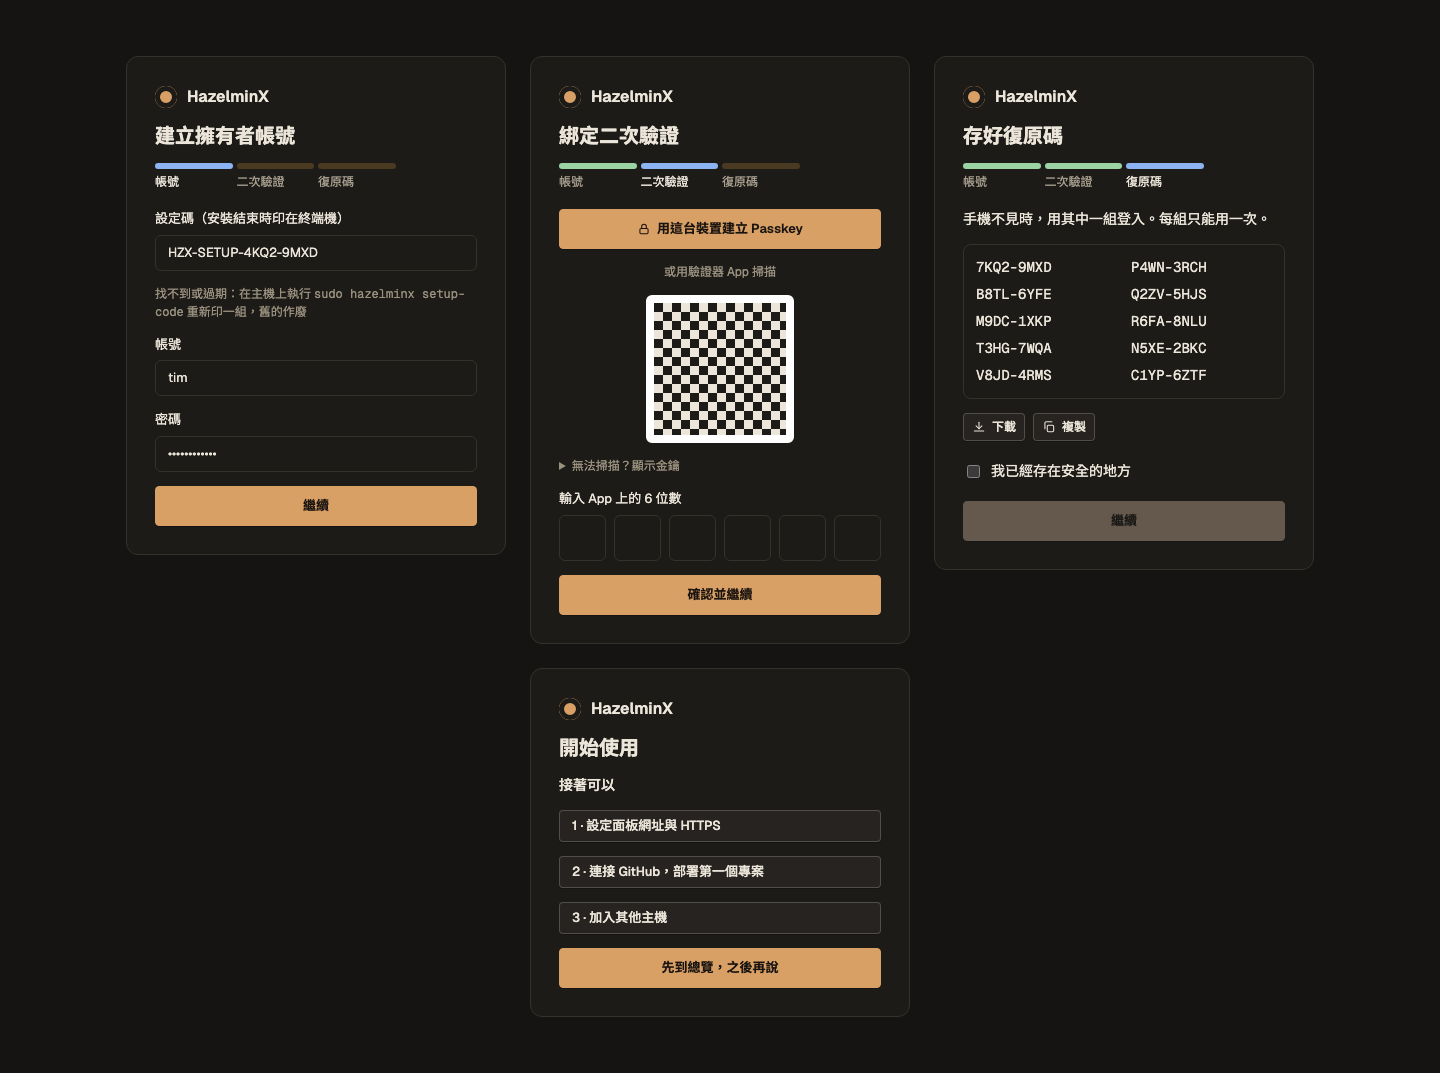
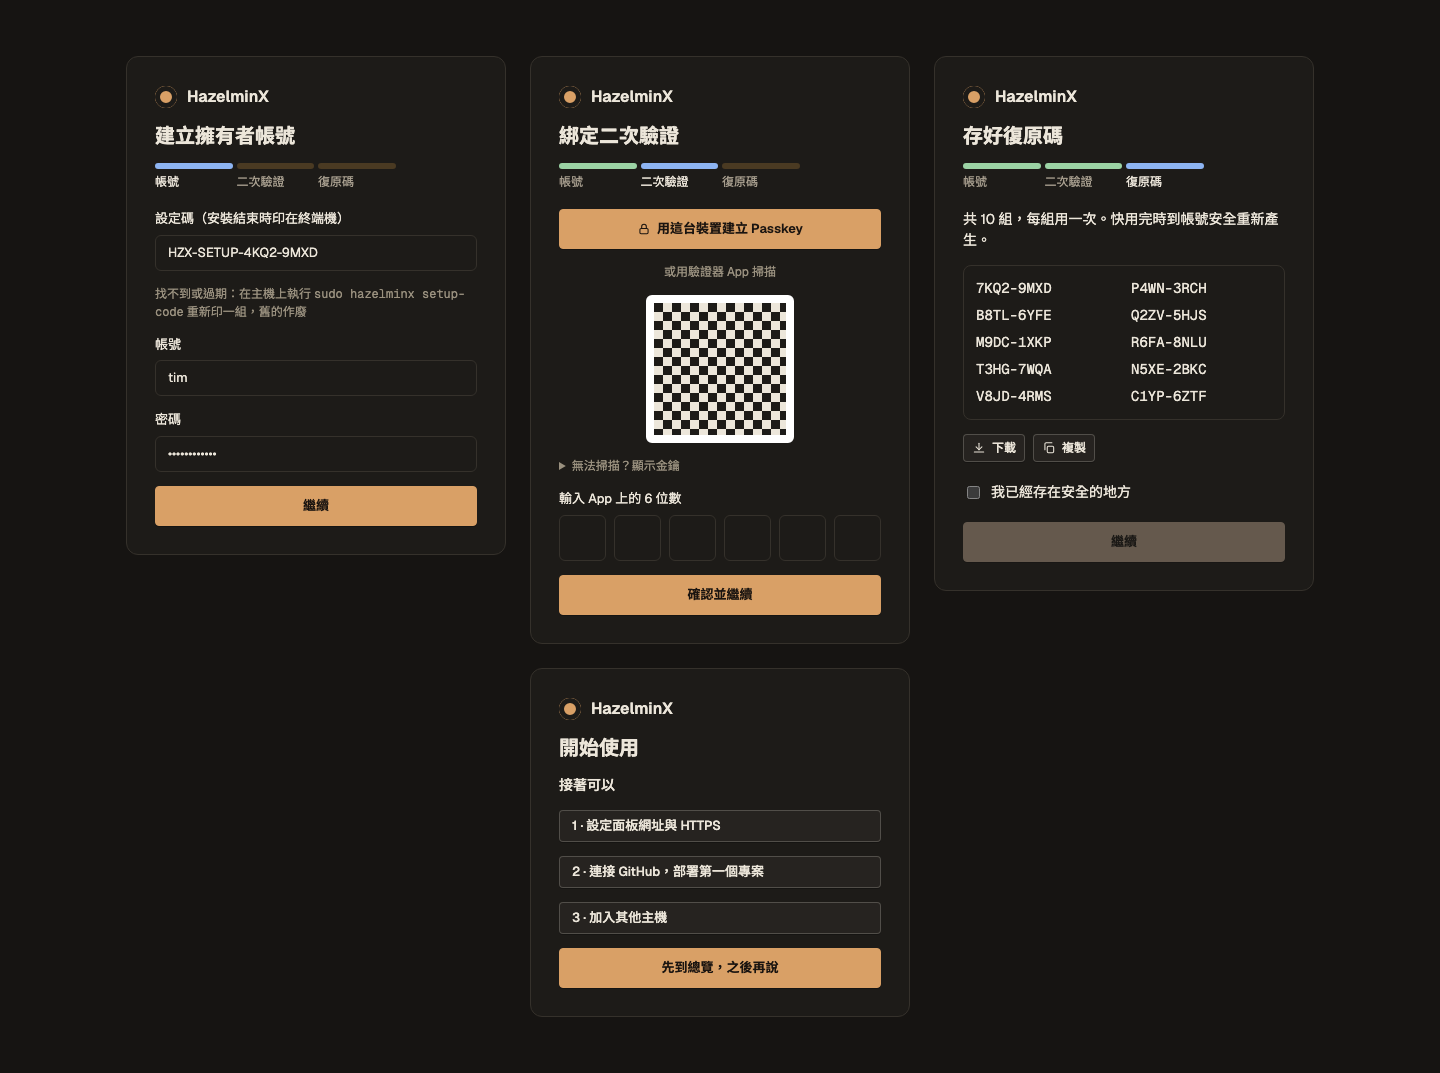
design: say how many recovery codes there are and how to get more

Changed region(s): [[0.6562, 0.1845, 0.9062, 0.5228], [0.7812, 0.246, 0.8438, 0.3691]]

diff --git a/design/screens/Setup.dc.html b/design/screens/Setup.dc.html
@@ -481,7 +481,7 @@ body{margin:0}
 <div class="hb theme-{{theme}}" style="min-height:100vh;display:flex;flex-direction:column"><main class="main" style="padding:0"><div style="flex:1;display:flex;flex-wrap:wrap;gap:24px;align-items:flex-start;justify-content:center;padding:56px 16px"><section style="background:var(--panel);border:1px solid var(--line);border-radius:12px;padding:28px;display:flex;flex-direction:column;gap:14px;width:100%;max-width:380px" aria-labelledby="h-s1"><div style="display:flex;align-items:center;gap:10px;font-weight:600;font-size:16px"><span class="logo" aria-hidden="true"></span>HazelminX</div><h1 id="h-s1" style="font-size:20px">建立擁有者帳號</h1><div class="steps"><div class="step cur"><b aria-hidden="true"></b><span>帳號</span><span class="note"></span></div><div class="step todo"><b aria-hidden="true"></b><span>二次驗證</span><span class="note"></span></div><div class="step todo"><b aria-hidden="true"></b><span>復原碼</span><span class="note"></span></div></div>
       <label style="display:flex;flex-direction:column;gap:6px;font-size:13px"><span>設定碼（安裝結束時印在終端機）</span><span class="inp"><input type="text" value="HZX-SETUP-4KQ2-9MXD" style="background:transparent;border:0;flex:1;min-width:0"></span></label><span class="note">找不到或過期：在主機上執行 <span class="mono">sudo hazelminx setup-code</span> 重新印一組，舊的作廢</span><label style="display:flex;flex-direction:column;gap:6px;font-size:13px"><span>帳號</span><span class="inp"><input type="text" value="tim" style="background:transparent;border:0;flex:1;min-width:0"></span></label><label style="display:flex;flex-direction:column;gap:6px;font-size:13px"><span>密碼</span><span class="inp"><input type="password" value="••••••••••••" style="background:transparent;border:0;flex:1;min-width:0"></span></label><button type="button" class="btn pri" style="min-height:40px">繼續</button></section><section style="background:var(--panel);border:1px solid var(--line);border-radius:12px;padding:28px;display:flex;flex-direction:column;gap:14px;width:100%;max-width:380px" aria-labelledby="h-s2"><div style="display:flex;align-items:center;gap:10px;font-weight:600;font-size:16px"><span class="logo" aria-hidden="true"></span>HazelminX</div><h1 id="h-s2" style="font-size:20px">綁定二次驗證</h1><div class="steps"><div class="step done"><b aria-hidden="true"></b><span>帳號</span><span class="note"></span></div><div class="step cur"><b aria-hidden="true"></b><span>二次驗證</span><span class="note"></span></div><div class="step todo"><b aria-hidden="true"></b><span>復原碼</span><span class="note"></span></div></div>
       <button type="button" class="btn pri" style="min-height:40px"><svg viewBox="0 0 24 24" width="14" height="14" fill="none" stroke="currentColor" stroke-width="1.8" stroke-linecap="round" stroke-linejoin="round" aria-hidden="true"><rect x="5" y="11" width="14" height="9" rx="2"/><path d="M8 11V8a4 4 0 0 1 8 0v3"/></svg>用這台裝置建立 Passkey</button><span class="note" style="text-align:center">或用驗證器 App 掃描</span><div aria-label="QR code" style="width:148px;height:148px;align-self:center;background:repeating-conic-gradient(var(--ink) 0 25%,var(--panel) 0 50%) 0 0/18px 18px;border:8px solid #fff;border-radius:6px"></div><details><summary class="note">無法掃描？顯示金鑰</summary><span class="mono">JBSW Y3DP EHPK 3PXP</span> <button type="button" class="btn sm"><svg viewBox="0 0 24 24" width="14" height="14" fill="none" stroke="currentColor" stroke-width="1.8" stroke-linecap="round" stroke-linejoin="round" aria-hidden="true"><rect x="9" y="9" width="11" height="11" rx="2"/><path d="M5 15V5a2 2 0 0 1 2-2h10"/></svg>複製</button></details><div style="display:flex;flex-direction:column;gap:6px;font-size:13px"><span>輸入 App 上的 6 位數</span><div style="display:grid;grid-template-columns:repeat(6,1fr);gap:8px" role="group" aria-label="6 位數驗證碼"><span class="inp mono" style="min-height:46px;padding:0"></span><span class="inp mono" style="min-height:46px;padding:0"></span><span class="inp mono" style="min-height:46px;padding:0"></span><span class="inp mono" style="min-height:46px;padding:0"></span><span class="inp mono" style="min-height:46px;padding:0"></span><span class="inp mono" style="min-height:46px;padding:0"></span></div></div><button type="button" class="btn pri" style="min-height:40px">確認並繼續</button></section><section style="background:var(--panel);border:1px solid var(--line);border-radius:12px;padding:28px;display:flex;flex-direction:column;gap:14px;width:100%;max-width:380px" aria-labelledby="h-s3"><div style="display:flex;align-items:center;gap:10px;font-weight:600;font-size:16px"><span class="logo" aria-hidden="true"></span>HazelminX</div><h1 id="h-s3" style="font-size:20px">存好復原碼</h1><div class="steps"><div class="step done"><b aria-hidden="true"></b><span>帳號</span><span class="note"></span></div><div class="step done"><b aria-hidden="true"></b><span>二次驗證</span><span class="note"></span></div><div class="step cur"><b aria-hidden="true"></b><span>復原碼</span><span class="note"></span></div></div>
-      <span>手機不見時，用其中一組登入。每組只能用一次。</span><div style="display:grid;grid-template-columns:1fr 1fr;gap:6px 14px;padding:12px;border:1px solid var(--line);border-radius:8px"><span class="mono">7KQ2-9MXD</span><span class="mono">P4WN-3RCH</span><span class="mono">B8TL-6YFE</span><span class="mono">Q2ZV-5HJS</span><span class="mono">M9DC-1XKP</span><span class="mono">R6FA-8NLU</span><span class="mono">T3HG-7WQA</span><span class="mono">N5XE-2BKC</span><span class="mono">V8JD-4RMS</span><span class="mono">C1YP-6ZTF</span></div>
+      <span>共 10 組，每組用一次。快用完時到帳號安全重新產生。</span><div style="display:grid;grid-template-columns:1fr 1fr;gap:6px 14px;padding:12px;border:1px solid var(--line);border-radius:8px"><span class="mono">7KQ2-9MXD</span><span class="mono">P4WN-3RCH</span><span class="mono">B8TL-6YFE</span><span class="mono">Q2ZV-5HJS</span><span class="mono">M9DC-1XKP</span><span class="mono">R6FA-8NLU</span><span class="mono">T3HG-7WQA</span><span class="mono">N5XE-2BKC</span><span class="mono">V8JD-4RMS</span><span class="mono">C1YP-6ZTF</span></div>
       <div class="wrap"><button type="button" class="btn sm"><svg viewBox="0 0 24 24" width="14" height="14" fill="none" stroke="currentColor" stroke-width="1.8" stroke-linecap="round" stroke-linejoin="round" aria-hidden="true"><path d="M12 4v11"/><path d="m7 10 5 5 5-5"/><path d="M4 19h16"/></svg>下載</button><button type="button" class="btn sm"><svg viewBox="0 0 24 24" width="14" height="14" fill="none" stroke="currentColor" stroke-width="1.8" stroke-linecap="round" stroke-linejoin="round" aria-hidden="true"><rect x="9" y="9" width="11" height="11" rx="2"/><path d="M5 15V5a2 2 0 0 1 2-2h10"/></svg>複製</button></div><label style="display:flex;gap:8px;align-items:center;min-height:32px"><input type="checkbox">我已經存在安全的地方</label><span tabindex="0" data-tip="勾選「我已經存在安全的地方」後才能繼續"><button type="button" class="btn pri" disabled style="min-height:40px;width:100%">繼續</button></span></section><section style="background:var(--panel);border:1px solid var(--line);border-radius:12px;padding:28px;display:flex;flex-direction:column;gap:14px;width:100%;max-width:380px" aria-labelledby="h-s4"><div style="display:flex;align-items:center;gap:10px;font-weight:600;font-size:16px"><span class="logo" aria-hidden="true"></span>HazelminX</div><h1 id="h-s4" style="font-size:20px">開始使用</h1>
       <span style="font-weight:500">接著可以</span>
       <a class="btn" href="Settings.dc.html" style="justify-content:flex-start">1 · 設定面板網址與 HTTPS</a>

diff --git a/design/tools/build_screens.py b/design/tools/build_screens.py
@@ -4472,7 +4472,7 @@ def setup() -> str:
       <button type="button" class="btn pri" style="min-height:40px">{U.icon("lock", 14)}用這台裝置建立 Passkey</button><span class="note" style="text-align:center">或用驗證器 App 掃描</span>{qr}<details><summary class="note">無法掃描？顯示金鑰</summary><span class="mono">JBSW Y3DP EHPK 3PXP</span> <button type="button" class="btn sm">{U.icon("copy", 14)}複製</button></details><div style="display:flex;flex-direction:column;gap:6px;font-size:13px"><span>輸入 App 上的 6 位數</span><div style="display:grid;grid-template-columns:repeat(6,1fr);gap:8px" role="group" aria-label="6 位數驗證碼"><span class="inp mono" style="min-height:46px;padding:0"></span><span class="inp mono" style="min-height:46px;padding:0"></span><span class="inp mono" style="min-height:46px;padding:0"></span><span class="inp mono" style="min-height:46px;padding:0"></span><span class="inp mono" style="min-height:46px;padding:0"></span><span class="inp mono" style="min-height:46px;padding:0"></span></div></div><button type="button" class="btn pri" style="min-height:40px">確認並繼續</button></section>"""
     codes = "".join(f'<span class="mono">{c}</span>' for c in ["7KQ2-9MXD", "P4WN-3RCH", "B8TL-6YFE", "Q2ZV-5HJS", "M9DC-1XKP", "R6FA-8NLU", "T3HG-7WQA", "N5XE-2BKC", "V8JD-4RMS", "C1YP-6ZTF"])
     s3 = f"""<section style="{card}" aria-labelledby="h-s3">{brand}<h1 id="h-s3" style="font-size:20px">存好復原碼</h1>{U.steps([("帳號", "done", ""), ("二次驗證", "done", ""), ("復原碼", "cur", "")])}
-      <span>手機不見時，用其中一組登入。每組只能用一次。</span><div style="display:grid;grid-template-columns:1fr 1fr;gap:6px 14px;padding:12px;border:1px solid var(--line);border-radius:8px">{codes}</div>
+      <span>共 10 組，每組用一次。快用完時到帳號安全重新產生。</span><div style="display:grid;grid-template-columns:1fr 1fr;gap:6px 14px;padding:12px;border:1px solid var(--line);border-radius:8px">{codes}</div>
       <div class="wrap"><button type="button" class="btn sm">{U.icon("download", 14)}下載</button><button type="button" class="btn sm">{U.icon("copy", 14)}複製</button></div>{_cb("我已經存在安全的地方", False)}<span tabindex="0" data-tip="勾選「我已經存在安全的地方」後才能繼續"><button type="button" class="btn pri" disabled style="min-height:40px;width:100%">繼續</button></span></section>"""
     s4 = f"""<section style="{card}" aria-labelledby="h-s4">{brand}<h1 id="h-s4" style="font-size:20px">開始使用</h1>
       <span style="font-weight:500">接著可以</span>
